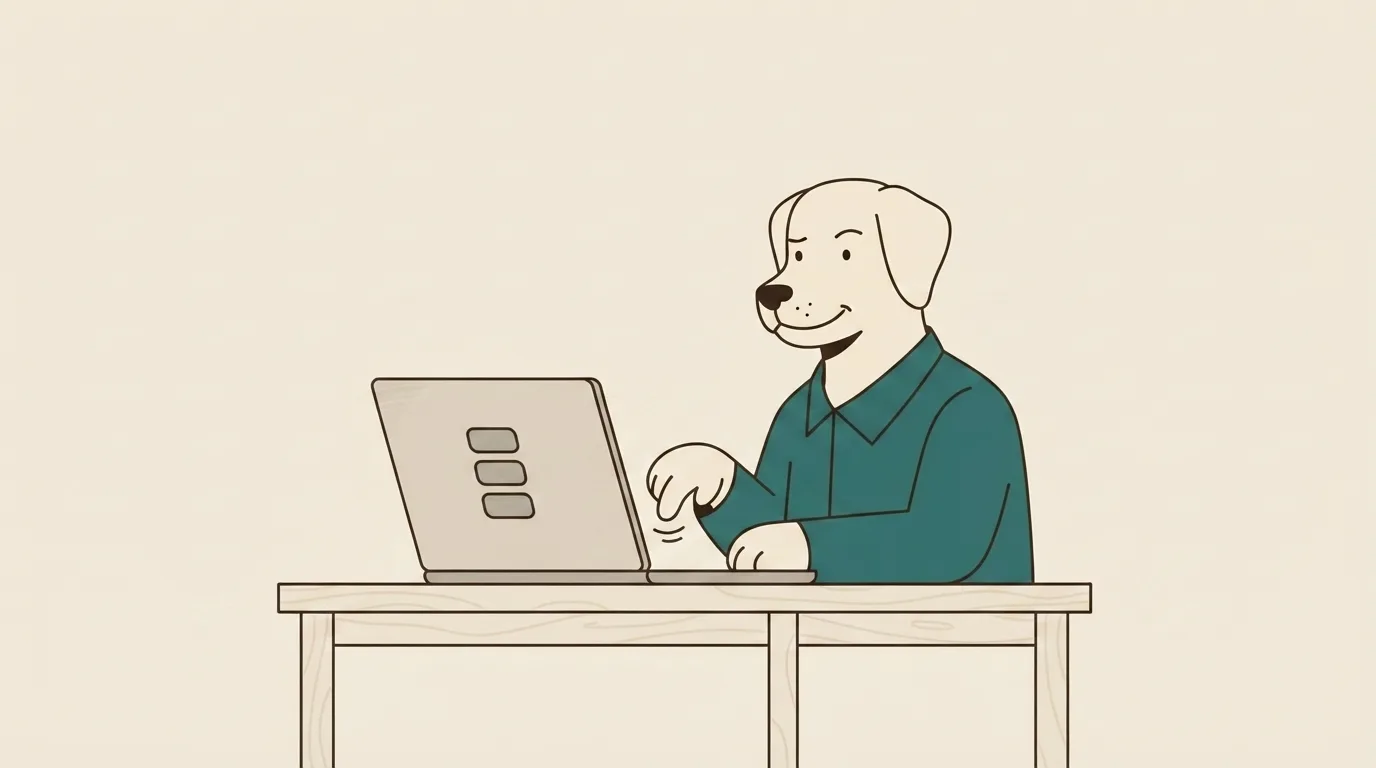
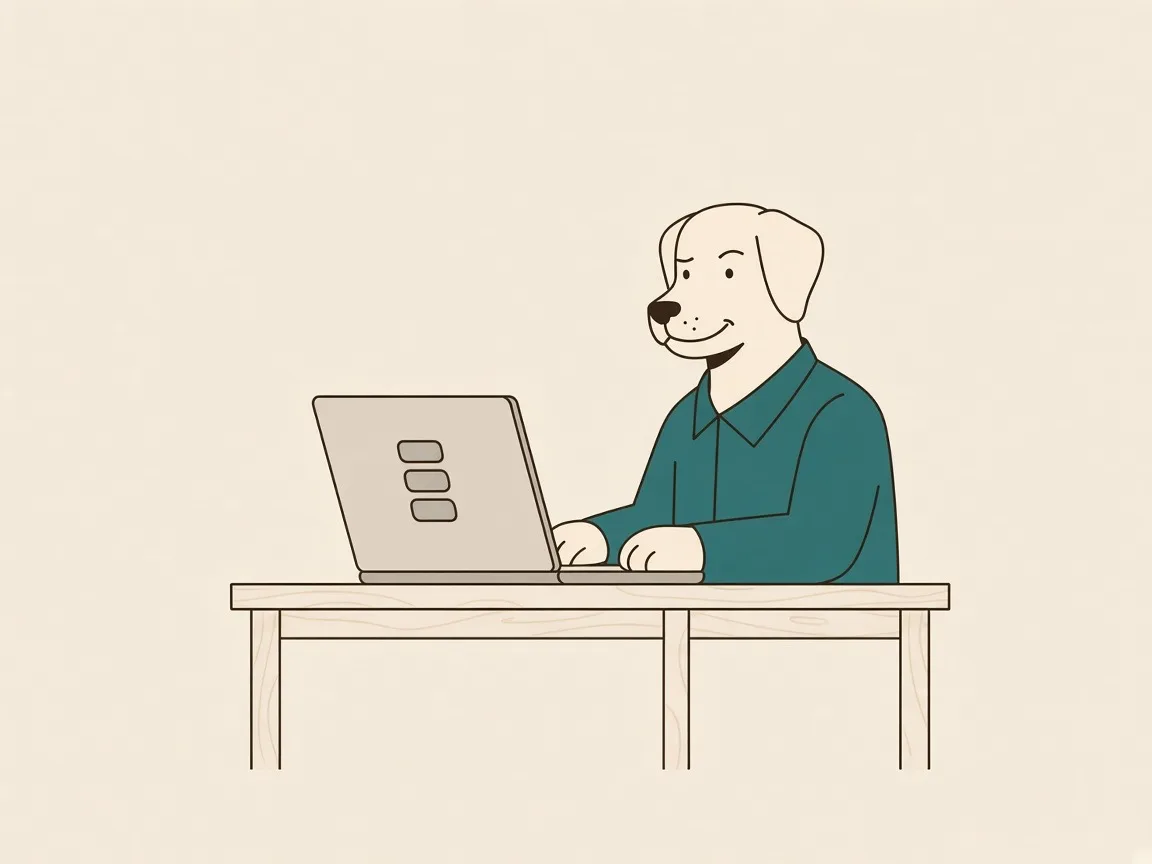
Cursor checkpoint: 2026-09-20 17:56
Files touched (4):
- USINESS_STATE.md
- public/brand/features/practice.jpg
- public/brand/features/practice.webp
- src/components/TestingMethod.tsx

Auto-committed by .cursor/hooks/git-checkpoint.mjs (stop hook) — not a curated commit message.

Changed region(s): [[0.1875, 0.2188, 0.8438, 1.0]]

diff --git a/src/components/TestingMethod.tsx b/src/components/TestingMethod.tsx
@@ -10,8 +10,6 @@ const STEPS = [
     body: "Instead of repeatedly reading the same material, answer questions that force you to recall what you’ve learned — helping you identify what you actually know and what you don’t.",
     src: "/brand/features/practice.webp",
     alt: "Illustrated practice scene — answering questions instead of re-reading notes.",
-    stickerSrc: "/brand/inspo/thumbs-up.png",
-    stickerAlt: "",
     objectPosition: "center 40%",
     tone: "teal" as const,
   },

diff --git a/BUSINESS_STATE.md b/BUSINESS_STATE.md
@@ -19,6 +19,7 @@ Phase 1 platform shell — in progress. Next.js app scaffolded at repo root with
 - No users, revenue, or infrastructure stood up for the new platform yet (no Supabase project, no Stripe account, no deployment) — the 60 logins are on the existing standalone "PMQ in 5 days" site.
 - **How the backlog gets built:** Claude plans/specs/grooms Linear/verifies; **Cursor** (a separate AI coding agent Sim runs locally) executes the actual code changes, picking up work from `cursor-prompt-*.md` files Claude writes in `cursor-prompts/` (they lived at the project root until 2026-09-15). Full definition in `CLAUDE.md` under "Collaborators & tools" — check there first if a session ever seems unsure what "Cursor" refers to.
 
+- **2026-09-20** — Testing method step 01: removed thumbs-up — dropped sticker overlay and replaced `practice.jpg`/`practice.webp` with a version where both paws rest on the keyboard (`TestingMethod`, `public/brand/features/practice.*`).
 - **2026-09-20** — Home brand hero category stamp (“Project Management Exam Revision”) bumped type size (`15px` / `sm:19px`) in `HomeBrandHero`.
 - **2026-09-20** — Home brand hero: removed geometric lattice square animation (`LabBackgroundPaths` no longer mounted in `HomeBrandHero`; still on `/lab`).
 - **2026-09-20** — Home testing method: dropped top border so it flows from the hero without a section rule (`TestingMethod`).
